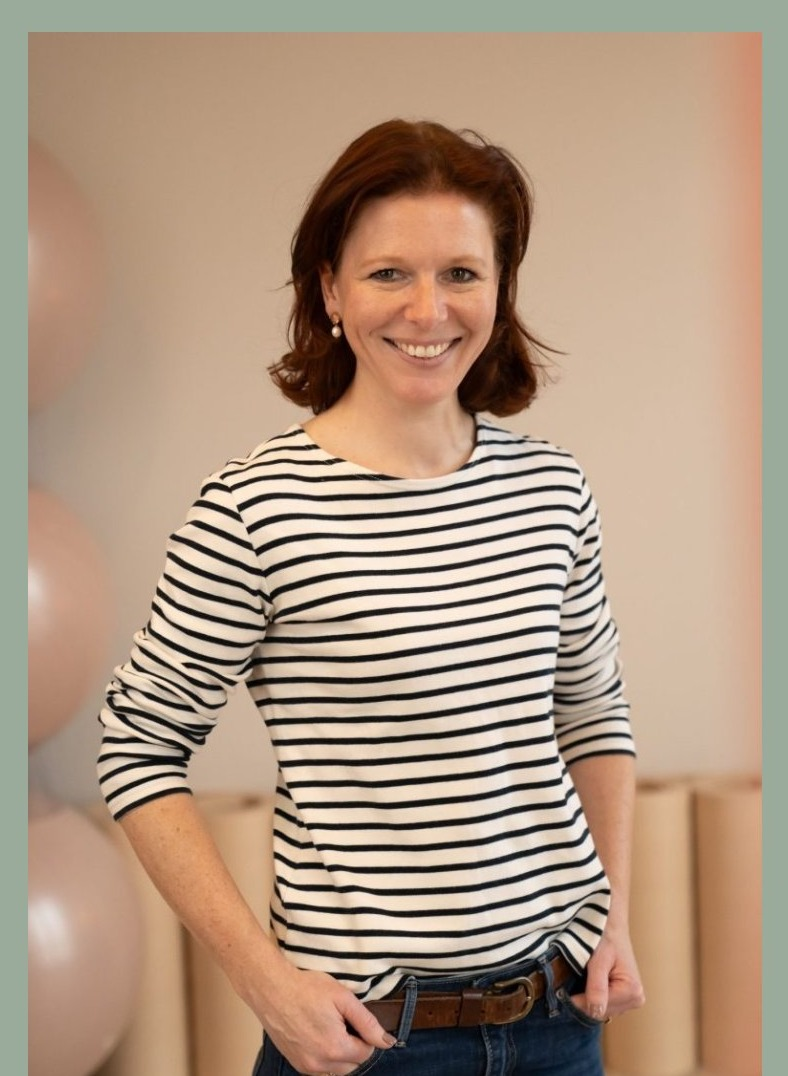
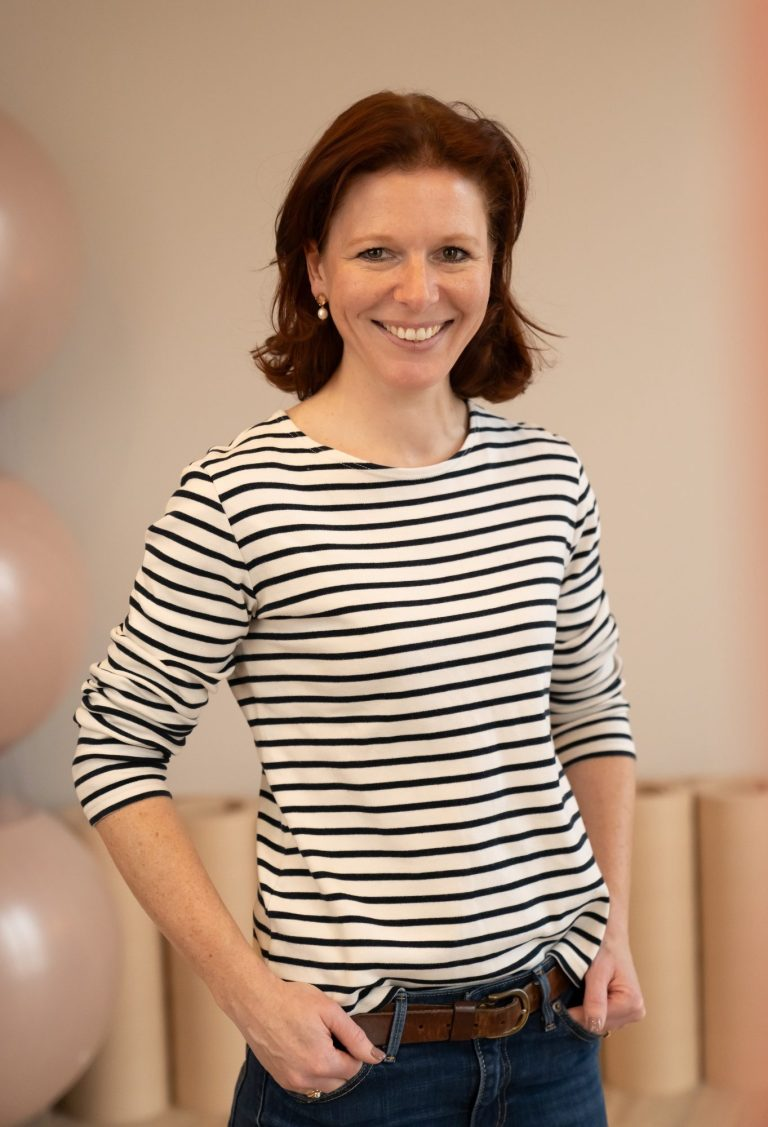
Fix Rahmen: border-radius auf Bild-Slides, neues Hanna-Foto ohne Rahmen

diff --git a/index.html b/index.html
@@ -124,17 +124,17 @@
     </div>
 
     <!-- SLIDE 2: Hanna -->
-    <div class="hw-slide" style="position:absolute;inset:0;border-radius:inherit;">
-      <img src="team-hanna.jpg" alt="Hanna Wrobel" style="width:100%;height:100%;object-fit:cover;object-position:center top;display:block;border-radius:inherit;">
+    <div class="hw-slide" style="position:absolute;inset:0;border-radius:20px;overflow:hidden;">
+      <img src="team-hanna.jpg" alt="Hanna Wrobel" style="width:100%;height:100%;object-fit:cover;object-position:center top;display:block;">
     </div>
 
     <!-- SLIDE 3: Empfang -->
-    <div class="hw-slide" style="position:absolute;inset:0;">
+    <div class="hw-slide" style="position:absolute;inset:0;border-radius:20px;overflow:hidden;">
       <img src="hero-startseite.jpg" alt="Empfang PhysioPro" style="width:100%;height:100%;object-fit:cover;object-position:center;display:block;">
     </div>
 
     <!-- SLIDE 4: Reformer Raum -->
-    <div class="hw-slide" style="position:absolute;inset:0;">
+    <div class="hw-slide" style="position:absolute;inset:0;border-radius:20px;overflow:hidden;">
       <img src="studio-reformer-room.jpg" alt="Reformer Raum PhysioPro" style="width:100%;height:100%;object-fit:cover;object-position:center;display:block;">
     </div>
 
